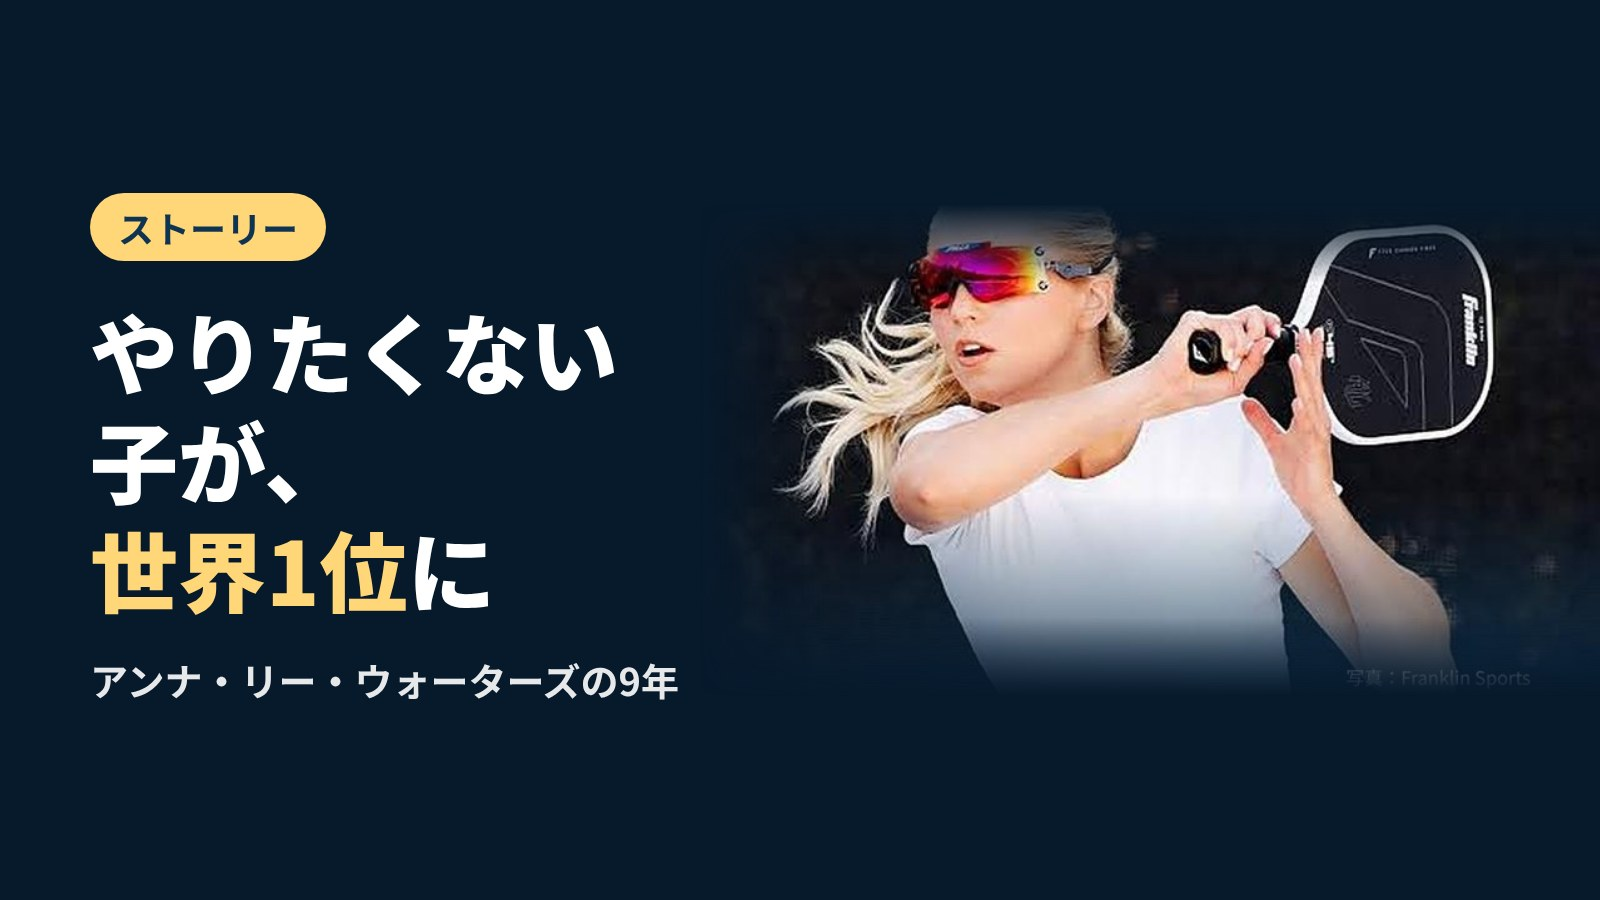
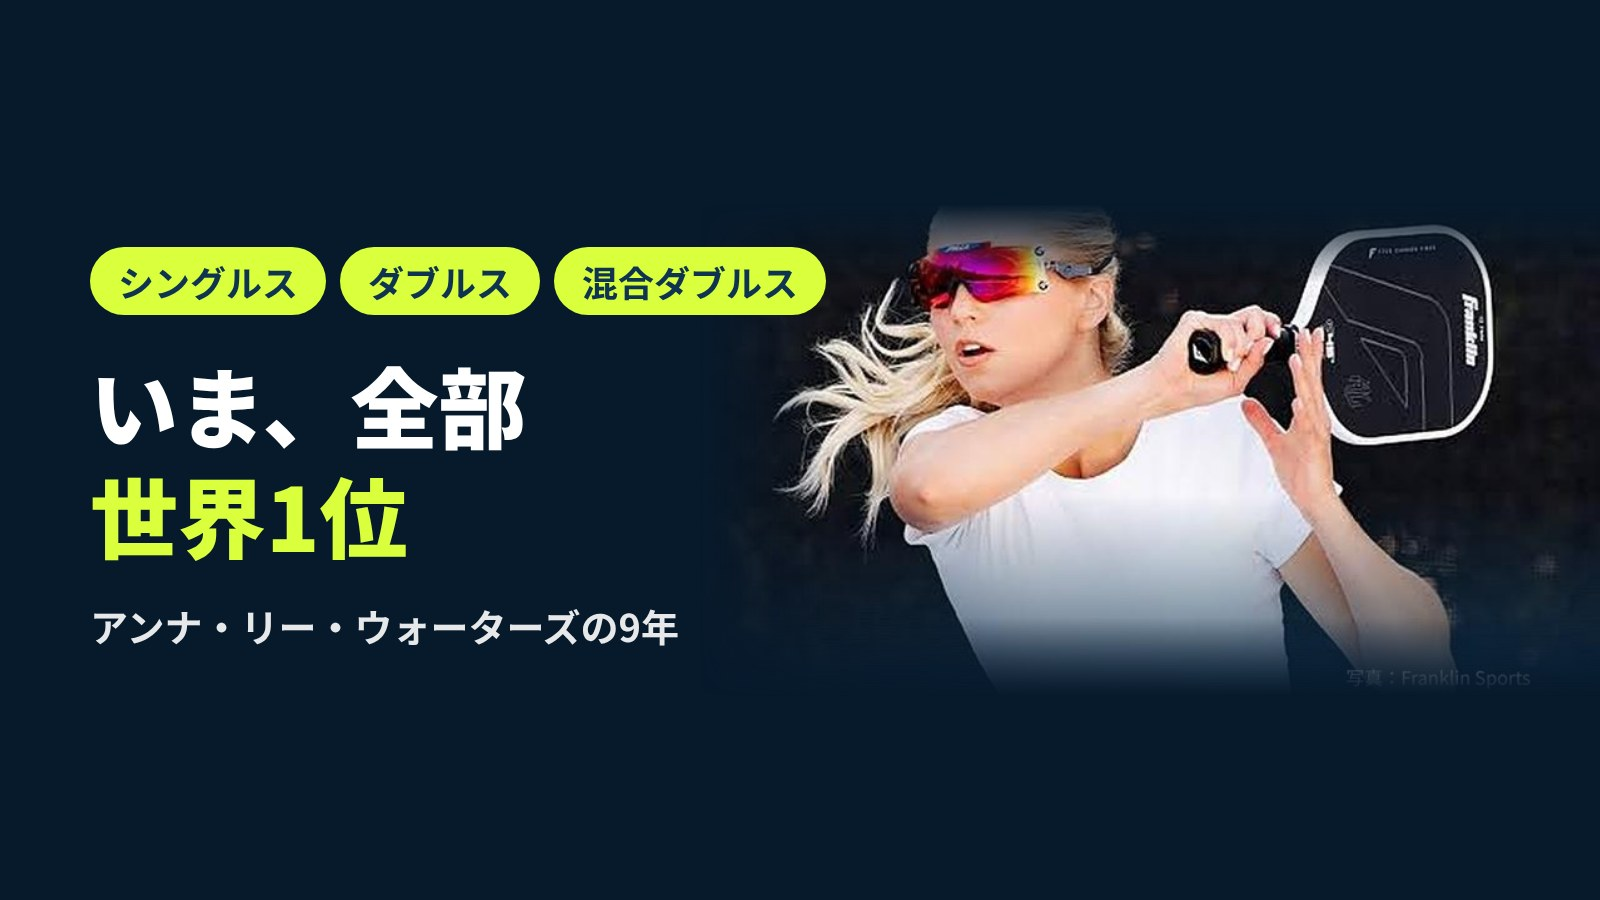
アンナ・リー・ウォーターズの記事：バナーとタイトルを「いま全部世界1位」に変更
Claude-Session: https://claude.ai/code/session_01KuMrUXr3a6bxPs31fpRfCP

Changed region(s): [[0.0312, 0.1867, 0.5312, 0.7778]]

diff --git a/social/instagram/scripts/banner.py b/social/instagram/scripts/banner.py
@@ -13,8 +13,8 @@ NAVY = '#0e3452'; SUN = '#ffd678'; CORAL = '#ff6b4a'; WHITE = '#ffffff'; PURPLE 
 # 表紙のファイル、切り抜く範囲（元画像の座標）、背景色（Noneなら表紙の左上の色）、文字色、札、見出し、ひとこと
 B = {
   'anna-leigh-waters': dict(src='anna-leigh-waters.jpg', crop=(0, 150, 1080, 740), full=True,
-      bg='#071a2c', fg=WHITE, tags=[('ストーリー', SUN, NAVY)],
-      lines=[[('やりたくない', WHITE)], [('子が、', WHITE)], [('世界1位', SUN), ('に', WHITE)]],
+      bg='#071a2c', fg=WHITE, tags=[('シングルス', '#D9FF3D', NAVY), ('ダブルス', '#D9FF3D', NAVY), ('混合ダブルス', '#D9FF3D', NAVY)],
+      lines=[[('いま、全部', WHITE)], [('世界1位', '#D9FF3D')]],
       sub='アンナ・リー・ウォーターズの9年'),
   'dink-strategy': dict(src='dink-strategy.jpg', crop=(0, 660, 1080, 1250), full=True,
       bg='#0a1d2e', fg=WHITE, tags=[('ちょっと戦術', SUN, NAVY)],

diff --git a/src/content/posts/anna-leigh-waters.md b/src/content/posts/anna-leigh-waters.md
@@ -1,5 +1,5 @@
 ---
-title: 「別に、やりたくない」と言った10歳が、世界1位になるまで｜アンナ・リー・ウォーターズの9年
+title: シングルス・ダブルス・混合ダブルス、いま全部世界1位｜アンナ・リー・ウォーターズの9年
 description: シングルス・ダブルス・混合ダブルスの3種目で世界1位、アメリカのアンナ・リー・ウォーターズ選手。テニスが楽しくなかった少女が、ハリケーンの避難先で「やりたくない」と言いながら始めたピックルボールで、世界の頂点に立つまでの話です。
 publishedAt: 2026-10-31
 category: news
